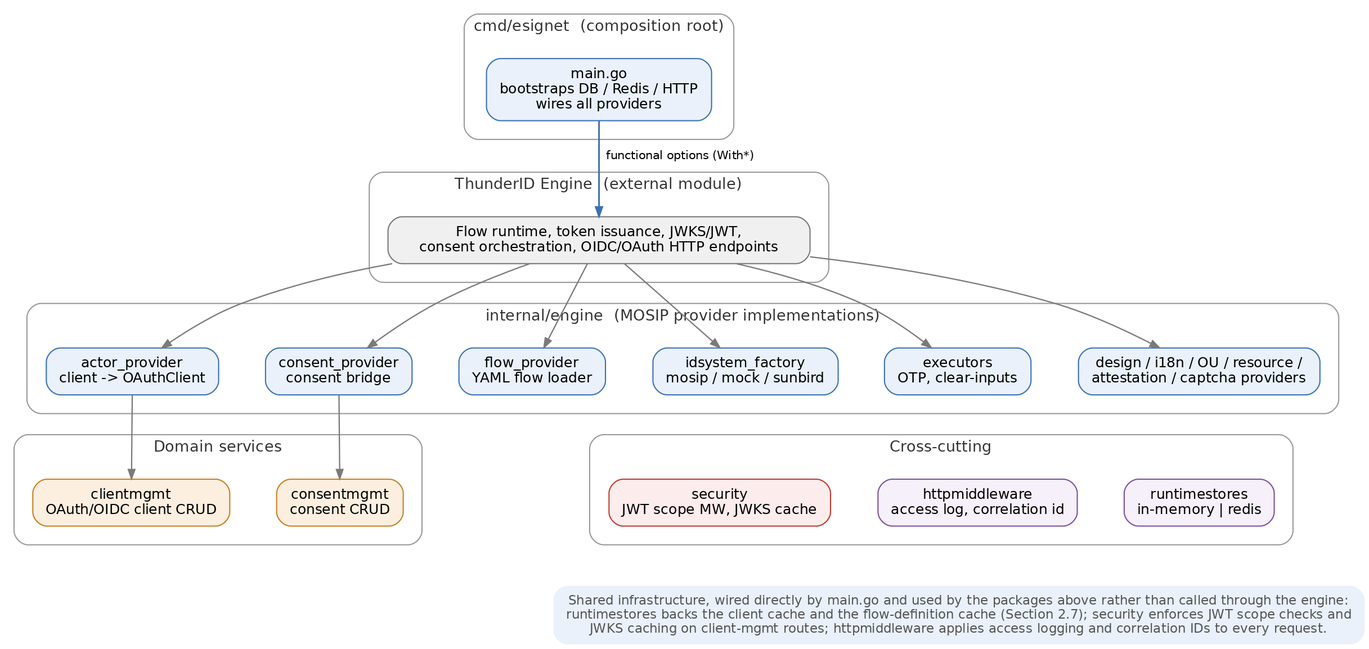
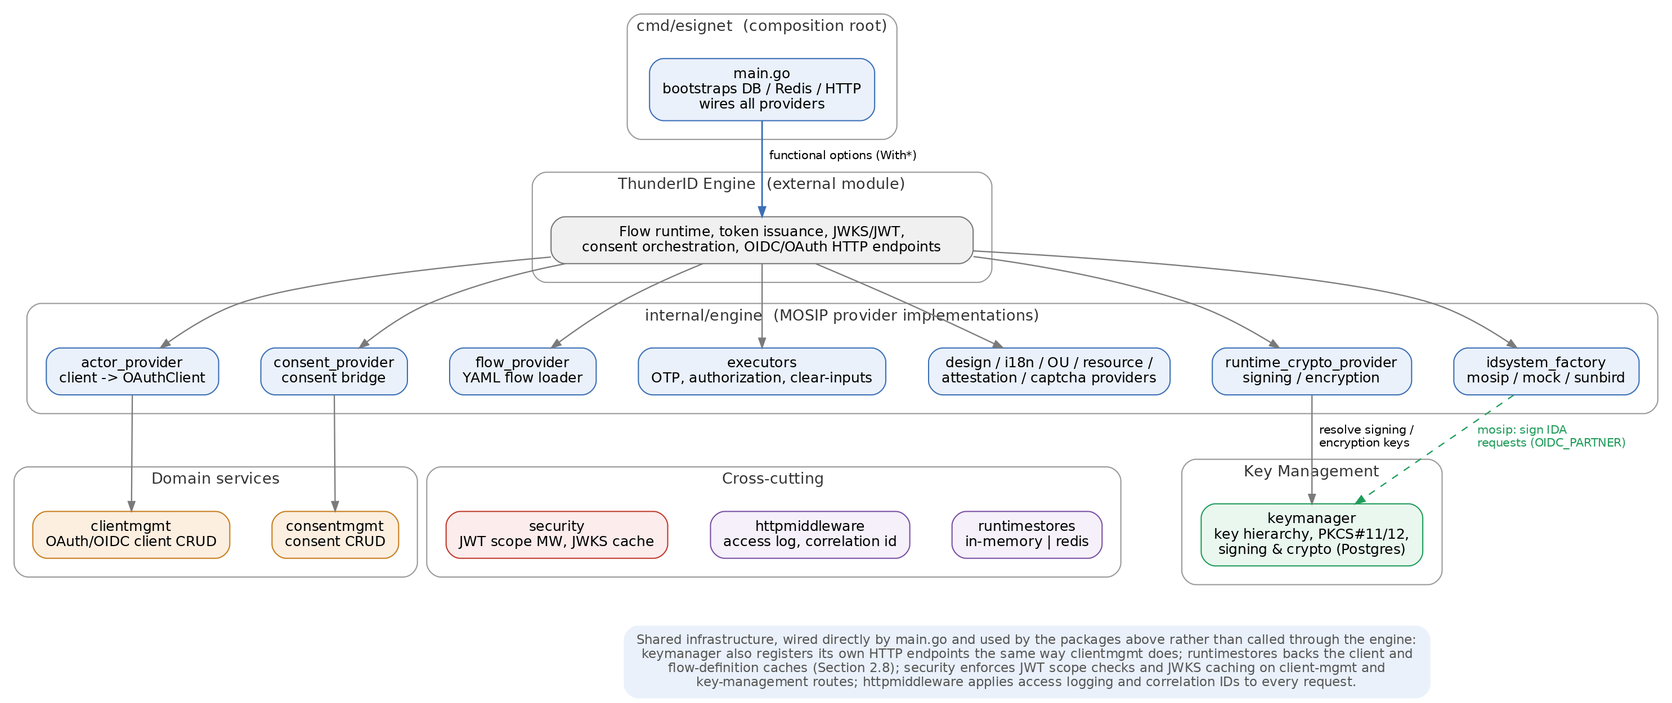
Updated architecture document

diff --git a/docs/architecture.md b/docs/architecture.md
@@ -2,7 +2,7 @@
 
 eSignet is MOSIP's OpenID Connect (OIDC) / OAuth2 identity provider (IDP). It lets a relying party (RP) — a government or private-sector application — authenticate an end user against a national or foundational identity system (e.g. MOSIP IDA, Sunbird Registered Claims, or a mock provider for testing) and receive standard OIDC tokens and claims, without the RP ever handling the user's raw identity credentials.
 
-This document describes the architecture of the two components that were reviewed in the connected repository:
+This document describes the architecture of the two components in this repository:
 
 - **esignet-service** – the Go backend that implements client management, consent management, and the MOSIP-specific pieces of the OIDC engine (identity-provider plugins, authentication flows, screens, security).
 - **oidc-ui** – the React/TypeScript single-page application that renders the login, OTP/biometric/KBI, and consent screens the end user interacts with.
@@ -11,7 +11,7 @@ Both components are built on top of ThunderID, a generic external OIDC/OAuth eng
 
 ### 1.1 System Context
 
-The diagram below shows how a relying party, the end user's browser, the two components under review, their datastores, and the pluggable identity backend fit together.
+The diagram below shows how a relying party, the end user's browser, the two components, their datastores, and the pluggable identity backend fit together.
 
 ![System context](diagrams/system-context.png)
 
@@ -24,14 +24,16 @@ _Figure 1 – System context_
 | esignet-service  | Go 1.26, ThunderID engine                    | OIDC/OAuth protocol endpoints (via engine), client & consent management APIs, MOSIP-specific auth-flow providers, identity-backend plugins |
 | oidc-ui          | React 19, TypeScript, Vite, @thunderid/react | Login/OTP/biometric/KBI/consent screens, theming, CAPTCHA, error/offline handling                                                          |
 | PostgreSQL       | RDBMS                                        | OAuth client registry, consent records/history, key material tables                                                                        |
-| Redis            | In-memory store                              | Shared runtime store: transient flow/session state, client cache, flow-definition cache                                                    |
+| Redis            | In-memory store                              | Shared runtime store: transient flow/OIDC transaction state, client cache, flow-definition cache                                                    |
 | Identity backend | MOSIP IDA / Sunbird RC / Mock                | Actual identity verification: OTP dispatch, KYC-auth, biometric/KBI matching                                                               |
 
 ---
 
 ## 2. esignet-service (Backend)
 
-esignet-service is a Go module (`github.com/mosip/esignet`, Go 1.26). Its entry point, `cmd/esignet/main.go`, is a composition root: it opens the Postgres and (optionally) Redis connections, builds the client-management HTTP handler, constructs an identity-backend provider via a factory, and then calls `thunderidengine.New(mux, ...)` with roughly twenty functional-option providers that plug MOSIP-specific behaviour into the generic ThunderID engine. The engine registers its own OIDC/OAuth endpoints (authorize, token, well-known discovery, JWKS, etc.) on the same `*http.ServeMux`; that route-registration code lives in the external module and is outside this repository.
+esignet-service is a Go module (`github.com/mosip/esignet`, Go 1.26). Its entry point, `cmd/esignet/main.go`, is a composition root: it opens the Postgres (via `pgx`) and (optionally) Redis connections, provisions its own cryptographic key hierarchy (see §2.4), builds the client-management and key-management HTTP handlers, constructs an identity-backend provider via a factory, and then calls `thunderidengine.New(mux, ...)` with over two dozen functional-option providers that plug MOSIP-specific behaviour into the generic ThunderID engine. The engine registers its own OIDC/OAuth endpoints (authorize, token, well-known discovery, JWKS, etc.) on the same `*http.ServeMux`; that route-registration code lives in the external module and is outside this repository.
+
+The HTTP server runs with explicit read-header/read/write/idle timeouts and shuts down gracefully on `SIGINT`/`SIGTERM` (a 10s window to drain in-flight requests before forcing closed). Alongside it, a private, unauthenticated `GET /metrics` listener (Prometheus, Postgres/Redis pool stats) runs on its own port, and an optional loopback-only (`127.0.0.1`) pprof debug server can be enabled for profiling.
 
 ### 2.1 Module Breakdown
 
@@ -44,10 +46,12 @@ _Figure 2 – esignet-service component composition_
 | `cmd/esignet`                                | Composition root: config load, DB/Redis setup, HTTP mux, wiring of all engine options                                                                                   |
 | `internal/clientmgmt`                        | OAuth/OIDC relying-party client registration, update, patch, lookup (REST API + Postgres)                                                                               |
 | `internal/consentmgmt`                       | User consent capture, decision hashing, history (Postgres)                                                                                                              |
-| `internal/engine`                            | MOSIP implementations of the ThunderID engine's provider interfaces (actor, authorization, consent bridge, flow, design, i18n, OU, resource, attestation, captcha, IDP) |
-| `internal/engine/executors`                  | Custom flow-step executors: eSignet OTP executor, clear-inputs executor                                                                                                 |
+| `internal/engine`                            | MOSIP implementations of the ThunderID engine's provider interfaces (actor, authorization, consent bridge, flow, design, i18n, OU, resource, attestation, captcha, IDP, runtime crypto) |
+| `internal/engine/executors`                  | Custom flow-step executors: eSignet OTP executor (with per-node max-attempt lockout), authorization executor (resource-server + client scope enforcement), clear-inputs executor |
 | `internal/engine/mosip` · `mock` · `sunbird` | Pluggable identity-verification backends selected at startup                                                                                                            |
 | `internal/engine/runtimestores`              | In-memory or Redis-backed shared runtime store (flow state, caches)                                                                                                     |
+| `internal/keymanager` (+ `cryptomanager`, `keystore`, `signature`) | Native Go port of MOSIP's Keymanager: key hierarchy, PKCS#11 (HSM) / PKCS#12 keystores, signing & envelope-encryption services, its own HTTP key-management API (Postgres) |
+| `internal/metrics`                           | Prometheus metrics (Postgres/Redis connection-pool stats), served on a private port                                                                                    |
 | `internal/security`                          | JWT bearer-token scope enforcement middleware, JWKS cache, request-time validation                                                                                      |
 | `internal/httpmiddleware`                    | Access logging, correlation-ID propagation                                                                                                                              |
 | `internal/config`                            | Environment/YAML-driven application configuration                                                                                                                       |
@@ -61,9 +65,11 @@ A flow is a state machine of nodes:
 
 - **START / END** – flow entry and exit points.
 - **PROMPT** – renders a UI screen, described as a tree of components (blocks, text, text/OTP inputs, consent widgets, custom elements) with i18n keys resolved by the i18n provider.
-- **TASK_EXECUTION** – invokes a named executor (built into the engine, e.g. `CredentialsAuthExecutor`, `AuthAssertExecutor`, `ConsentExecutor`, `AuthorizationExecutor`; or MOSIP-specific, e.g. `eSignetOtpExecutor`) and branches on `onSuccess` / `onIncomplete`.
+- **TASK_EXECUTION** – invokes a named executor (built into the engine, e.g. `CredentialsAuthExecutor`, `AuthAssertExecutor`, `ConsentExecutor`; or MOSIP-specific, e.g. `eSignetOtpExecutor`, `eSignetAuthorizationExecutor`) and branches on `onSuccess` / `onIncomplete`.
 
-`flow-esignet.yaml` implements a multi-ACR login: a mode selector branches into OTP, password, biometric, or KBI sub-flows (each collecting a UIN/mobile/email/NRC identifier plus a CAPTCHA), converging on `authorization_check` → `consent_check` (looping back to the consent screen if incomplete) → `auth_assert` → `end`. A CAPTCHA interceptor is applied selectively to OTP-send and credential/KBI-auth nodes.
+`flow-esignet.yaml` implements a multi-ACR login: a mode selector branches into OTP, password, biometric, or KBI sub-flows (each collecting a UIN/mobile/email/NRC identifier plus a CAPTCHA; OTP-send nodes are capped at 3 attempts before the step fails), converging on `authorization_check` → `consent_check` (looping back to the consent screen if incomplete) → `auth_assert` → `end`. A CAPTCHA interceptor is applied selectively to OTP-send and credential/KBI-auth nodes.
+
+`authorization_check` now runs the custom `eSignetAuthorizationExecutor` (RFC 8707 resource-indicator support) rather than a built-in engine executor: it resolves the resource server bound to the request (via a `resource_server_identifier` seeded by the OAuth layer, falling back to the deployment's default resource server), drops any requested permission scope that resource server doesn't define, and intersects what's left against the requesting client's `allowed_authorization_scopes` — writing the result as `authorized_permissions` for the consent step to prompt on.
 
 ### 2.3 Pluggable Identity-System Providers
 
@@ -71,15 +77,32 @@ A flow is a state machine of nodes:
 
 | Provider  | Backend                                        | Notes                                                                                                                                                                                                         |
 | --------- | ---------------------------------------------- | ------------------------------------------------------------------------------------------------------------------------------------------------------------------------------------------------------------- |
-| `mosip`   | MOSIP IDA (KYC-auth / KYC-exchange / send-OTP) | Requests encrypted with AES-256-GCM, key wrapped with RSA-OAEP against the IDA partner certificate, payload signed as a JWT (x5c) using a key loaded from a PKCS#12 file. Supports OTP, password, biometrics. |
+| `mosip`   | MOSIP IDA (KYC-auth / KYC-exchange / send-OTP) | Requests encrypted with AES-256-GCM, key wrapped with RSA-OAEP against the IDA partner certificate, payload signed as a JWT (x5c) using the `OIDC_PARTNER` key resolved from `internal/keymanager` (see §2.4) rather than a local PKCS#12 file. Supports OTP, password, biometrics; the KYC-exchange response is now passed through as an already-signed JWT rather than parsed into individual claims. |
 | `sunbird` | Sunbird Registered Claims registry             | KBI-only (no OTP). Exact-match search against configured KBI fields; requires exactly one match; claims released only via an explicit field mapping (fail closed on unmapped fields).                         |
 | `mock`    | In-house mock identity service                 | For development/testing; supports OTP, password, PIN, biometrics, or arbitrary KBI challenges; no MOSIP cryptographic envelope.                                                                               |
 
-### 2.4 Client Management
+### 2.4 Key Management
+
+`internal/keymanager` is a native Go port of MOSIP's Java `KeymanagerService`: cryptographic key lifecycle management (generation, certificate/CSR issuance, upload, revocation, and lazy expiry-driven rotation) backed by Postgres and a pluggable keystore — PKCS#11 (HSM/SoftHSM2; built only under `CGO_ENABLED=1`, falling back to an error stub otherwise) or a PKCS#12 file. Engine's new `engine.NewRuntimeCryptoProvider` (wired via `thunderidengine.WithRuntimeCryptoProvider`) resolves signing and encryption operations through this package.
+
+Keys are organised in a hierarchy: a self-signed `ROOT`, under which each `ApplicationID` gets a Component Master Key (RSA-2048, signed by ROOT) plus an EC sign key and/or Component Encryption Keys (signed by the Master Key). On every startup, `main.go`'s `provisionKeyHierarchy` idempotently provisions `ROOT`; `OIDC_SERVICE` (esignet itself — its RSA master key, an `EC_SECP256R1_SIGN` JWT-signing key, and a `CACHE_ENCRYPT` symmetric key the runtime-crypto provider uses for cache encryption); and `OIDC_PARTNER` (the RSA key esignet uses to sign outbound MOSIP IDA requests — see §2.3). The service's JWKS well-known output is also extended to publish the active identity backend's own signing certificates (`GetSigningCertificates`) alongside these keys.
+
+`keymanager.Handler` exposes its own small HTTP API, registered on the same mux and behind the same security middleware as client management:
+
+| Method & Path | Purpose |
+| --- | --- |
+| `GET /system-info/certificate` | Fetch the current certificate/CSR for an `applicationId` (+ optional `referenceId`) |
+| `POST /system-info/uploadCertificate` | Replace the certificate for an `applicationId`/`referenceId` |
+
+The package owns the `key_alias`, `key_policy_def`, and `key_store` tables directly (see §2.9); `public_key_registry`, `ca_cert_store`, and `server_profile` remain used by the ThunderID engine itself rather than by esignet-service's own Go code.
+
+### 2.5 Client Management
 
 `internal/clientmgmt` models one underlying OAuth/OIDC client entity exposed through three API "profiles" (oidc-client, oauth-client, generic client) sharing the same Postgres table, `client_detail`. A client record carries its client ID/name, relying-party ID, redirect URIs, allowed claims and ACR values, signing/encryption JWKs, grant types and token-auth methods, plus a free-form `additional_config` JSON for PAR/DPoP/PKCE flags and consent expiry.
 
 The service supports create, full update, and partial patch (with optimistic concurrency via an updated-timestamp check, and a tri-state "omitted / null / value" marker for the encryption key so callers can distinguish "leave alone" from "clear"). `GetClient` is cache-through: reads hit the shared runtime store first, and every write invalidates the cache.
+
+`additional_config` is now validated against an explicit allow-list of known keys (unknown keys are rejected), and a registered `EncPublicKey`'s declared `alg` must be one of the deployment's `SupportedEncAlgorithms` (`MOSIP_ESIGNET_OAUTH_SUPPORTED_ENCRYPTION_ALGORITHMS`, default `RSA-OAEP` / `RSA-OAEP-256`). Duplicate-client-ID and duplicate-public-key conflicts are now detected via the Postgres driver's structured error code (`pgconn.PgError.Code == "23505"`) rather than a brittle string match, fixing a case that previously fell through as an unhandled HTTP 500.
 
 **Endpoints**
 
@@ -93,38 +116,43 @@ The service supports create, full update, and partial patch (with optimistic con
 | `PATCH /client-mgmt/client/{client_id}`                            | Partial update of selected fields        |
 | `GET /client-mgmt/client/{client_id}`                              | Fetch a client (cache-through)           |
 
-### 2.5 Consent Management
+### 2.6 Consent Management
 
 `internal/consentmgmt` ports the decision logic of the original Java eSignet consent service. A `ConsentRecord` holds the client/user pair, requested claims and authorization scopes, a deterministic hash of that request, the accepted claims/permitted scopes, and an optional expiry (null = never expires).
 
-On each authorization request, the engine's consent provider compares a hash of the newly requested claims/scopes against the last stored consent for that (client, user) pair to decide whether to re-prompt the user (CAPTURE) or reuse the prior decision (NOCAPTURE). `SaveRecord` writes both an append-only audit row (`consent_history`) and an upserted current row (`consent_detail`) inside a single database transaction; `DeleteRecord` removes only the current row, leaving history intact.
+On each authorization request, the engine's consent provider compares a hash of the newly requested claims/scopes against the last stored consent for that (client, user) pair to decide whether to re-prompt the user (CAPTURE) or reuse the prior decision (NOCAPTURE). It now resolves the client (`clientSvc.GetActiveClient`) and filters against that client's own registered `Claims` rather than the deployment's global scope-claims config alone, and any submitted consent decision is filtered to only the claims/scopes actually requested — a user (or a malicious client) can't grant more than was asked for. `SaveRecord` writes both an append-only audit row (`consent_history`) and an upserted current row (`consent_detail`) inside a single database transaction; `DeleteRecord` removes only the current row, leaving history intact.
 
-### 2.6 Security
+### 2.7 Security
 
-Two independent, composable HTTP middlewares protect the client-management API surface:
+Two independent, composable HTTP middlewares protect the client-management and key-management API surfaces:
 
 - **Scope enforcement** – `ScopeMiddleware` activates only when both an issuer URL and a JWKS URL are configured. It validates the Bearer JWT (RS/ES/PS 256/384/512, pinned issuer, mandatory expiry) against a key resolved from a polling `JWKSCache` (keyed by `kid`, with a forced refresh on a cache miss to tolerate key rotation), then checks the token's scope claim against a per-route scope mapping. Requests to a route with no configured mapping are rejected (fail closed).
 - **Request-time validation** – a configurable leeway window (default 300s) rejects requests whose declared request time has drifted too far from server time, mitigating replay of captured requests.
 
-The OIDC/OAuth protocol surface itself (token issuance, PKCE, DPoP, client authentication via `private_key_jwt`) is enforced inside the ThunderID engine and configured, not re-implemented, by esignet-service.
+The OIDC/OAuth protocol surface itself (token issuance, PKCE, DPoP, client authentication via `private_key_jwt`) is enforced inside the ThunderID engine and configured, not re-implemented, by esignet-service. A configurable CORS allow-list (`MOSIP_ESIGNET_CORS_ALLOWED_ORIGIN_REGEX`, matched against a regex) is passed to the engine as an `OriginConfig`; unset, no cross-origin requests are allowed. Clients can also opt into encrypted responses: when a client's `additional_config` requests `"JWE"`, the userinfo and ID-token responses are sign-then-encrypt (nested JWT, `A256GCM`) using that client's registered encryption key instead of plain signed JWTs.
 
-### 2.7 Configuration & Runtime Store
+### 2.8 Configuration, Observability & Runtime Store
 
-Application configuration is loaded from `data/deployment.yaml` with environment-variable interpolation, then defaulted/overridden by explicit env vars. Notable settings include the listening port, issuer host, data directory, selected authentication provider, active flow/layout/theme IDs, the runtime-store backend, cache TTLs for clients/flows/design assets, and nested engine configuration for OAuth grant/response types, JWT signing, ACR→AMR mapping, CAPTCHA validation, and outbound HTTP client tuning.
+Application configuration is loaded from `data/deployment.yaml` with environment-variable interpolation, then defaulted/overridden by explicit env vars. Notable settings include the listening port, issuer host, data directory, selected authentication provider, active flow/layout/theme IDs, the runtime-store backend, cache TTLs for clients/flows/design assets, CORS origin regex, supported client encryption algorithms, inbound HTTP server timeouts, and nested engine configuration for OAuth grant/response types, JWT signing, ACR→AMR mapping, CAPTCHA validation, and outbound HTTP client tuning. `internal/keymanager` and `internal/keymanager/cryptomanager` load their own `KEYMANAGER_`-prefixed config separately (keystore type/path, key policy defaults, DB schema — see §2.4).
 
-The runtime store abstracts transient state behind one interface with two implementations: an in-memory store (single instance, development/testing only — explicitly logged as not shared across replicas) and a Redis-backed store used in production for horizontal scalability. It is shared by three consumers: the engine's own flow/session state, the client-management cache, and the flow-definition cache.
+The runtime store abstracts transient state behind one interface with two implementations: an in-memory store (single instance, development/testing only — explicitly logged as not shared across replicas) and a Redis-backed store used in production for horizontal scalability. It is shared by three consumers: the engine's own flow state, the client-management cache, and the flow-definition cache.
 
-### 2.8 Data Model
+Observability runs on two side channels, both separate from the public API mux: a private `GET /metrics` listener (Prometheus, `internal/metrics` — Postgres and Redis connection-pool gauges/counters) on its own port, and an optional `127.0.0.1`-only pprof debug server (`/debug/pprof/*`) gated by a config flag, for profiling without exposing it publicly.
 
-The service owns three tables directly (via generated, type-safe SQL access):
+### 2.9 Data Model
 
-| Table             | Purpose                                                                                                                                |
-| ----------------- | -------------------------------------------------------------------------------------------------------------------------------------- |
-| `client_detail`   | OAuth/OIDC client registry: identifiers, redirect URIs, claims, ACR values, JWKs, grant types, auth methods, status, additional config |
-| `consent_detail`  | Current consent decision per (client_id, user token): accepted claims, permitted scopes, expiry                                        |
-| `consent_history` | Append-only audit trail of every consent decision                                                                                      |
+The service owns six tables directly (via generated, type-safe SQL access):
 
-A shared `mosip_esignet` schema also defines `key_store`, `public_key_registry`, `key_alias`, `key_policy_def`, and `ca_cert_store` tables used by the esignet-service's own key manager for cryptographic operations.
+| Table               | Purpose                                                                                                                                | Owning package        |
+| ------------------- | ---------------------------------------------------------------------------------------------------------------------------------------| ---------------------- |
+| `client_detail`     | OAuth/OIDC client registry: identifiers, redirect URIs, claims, ACR values, JWKs, grant types, auth methods, status, additional config | `internal/clientmgmt`  |
+| `consent_detail`    | Current consent decision per (client_id, user token): accepted claims, permitted scopes, expiry                                       | `internal/consentmgmt` |
+| `consent_history`   | Append-only audit trail of every consent decision                                                                                      | `internal/consentmgmt` |
+| `key_alias`         | Key hierarchy metadata (application/reference IDs, certificate thumbprints, expiry)                                                    | `internal/keymanager`  |
+| `key_policy_def`    | Per-`ApplicationID` key policy (validity periods, allowed key types) that must exist before a key can be generated for that app        | `internal/keymanager`  |
+| `key_store`         | Encrypted private keys and certificates                                                                                                | `internal/keymanager`  |
+
+The `key_alias`/`key_policy_def`/`key_store` schema is configurable (`KEYMANAGER_DB_SCHEMA`, default `keymgr` to match the Java service) — the reference `docker-compose` deployment points it at the same `esignet` Postgres schema as `client_detail`/`consent_detail`. A shared schema also defines `public_key_registry`, `ca_cert_store`, and `server_profile` tables used by the ThunderID engine itself rather than by esignet-service's own Go code.
 
 ---
 
@@ -141,7 +169,7 @@ oidc-ui is a React 19 / TypeScript single-page application built with Vite. Rath
 | Routing            | react-router-dom v7                                                              |
 | Data/query caching | @tanstack/react-query v5                                                         |
 | Styling            | Tailwind CSS v4 (CSS-based config) + PostCSS/Autoprefixer                        |
-| Core domain SDK    | @thunderid/react v0.11.0 – SignIn/flow renderer, ThunderIDProvider, I18nProvider |
+| Core domain SDK    | @thunderid/react v1.0.6 – SignIn/flow renderer, ThunderIDProvider, I18nProvider (data-router APIs; major-version bump from v0.11.0) |
 | CAPTCHA            | Google reCAPTCHA, Cloudflare Turnstile, hCaptcha (selectable)                    |
 | Biometrics         | @mosip/secure-biometric-interface-integrator                                     |
 | Testing            | Vitest + Testing Library, jsdom, 80% coverage threshold                          |
@@ -175,6 +203,8 @@ _Figure 3 – oidc-ui component composition_
 
 There is no separate app route per screen (OTP entry, consent review, biometric capture, etc.) — those are step types rendered inside the single SDK flow component, matching the backend's PROMPT-node model described in section 2.2. The app customises specific step renderers (e.g. the CAPTCHA box, the biometric-capture widget, the resend-OTP and back-button controls) by injecting overrides into the SDK.
 
+Routing was migrated from `<BrowserRouter>` to `createBrowserRouter`/`<RouterProvider>` (a single catch-all route rendering an `AppLayout` wrapper around `NavHeader` + `AppRouter` + `Footer`), which is required to use react-router's `useBlocker` hook. `AppRouter` uses that hook to intercept browser back/forward navigation (`historyAction === "POP"`) and show a confirmation prompt before letting it proceed, and separately registers a `beforeunload` warning once the user has started interacting with the `/signin` screen — both guard against accidentally abandoning an in-progress login session.
+
 ### 3.4 Backend Integration
 
 `api.service.ts` wraps axios with credentials enabled and a base URL derived from `VITE_API_URL` (`/v1/esignet` in production). A request interceptor fetches and caches a CSRF token from `GET {base}/csrf/token`, attaching it as an `X-XSRF-TOKEN` header on state-changing requests; a response interceptor redirects to `/something-went-wrong` on any 4xx/5xx. The SDK's `ThunderIDProvider` is initialised with the same base URL and the `applicationId` query parameter, and internally issues the actual flow/OTP/consent/token calls against esignet-service.
@@ -184,6 +214,8 @@ In production, nginx proxies `/v1/esignet/*` to the esignet-service backend, alo
 ### 3.5 Configuration & Theming
 
 Per-deployment configuration is injected at container start rather than baked into the build: `public/env-config.js` sets `window._env_` (default language, well-known URL, theme, favicon, title, ID-provider display name), generated by `configure_start.sh` from Docker build arguments. The same script downloads and unzips externally hosted i18n, theme, and image bundles into the served static tree — the frontend analogue of the backend's `data/i18n` and `data/themes` YAML assets, delivered as static files rather than fetched live from an API. A runtime `theme/config.json` (fetched by `config.service.ts`) carries boolean UI feature flags (e.g. OTP/biometrics info icons, background logo, footer, outline toggle), and CSS custom properties are injected for logo and background image URLs.
+
+The initial UI language now follows the standard OIDC `ui_locales` query parameter when the relying party supplies one (first of the space-separated, preference-ordered list), falling back to `window._env_.DEFAULT_LANG`; the resolved language is passed into `ThunderIDProvider` as `preferences.i18n.language`. `ThunderIDProvider` is also given a `namespace={applicationId}` prop, fixing localized client-name resolution. The language switcher in `NavHeader` was redesigned to show each language's native-script name (e.g. हिन्दी, العربية) instead of its raw locale display name, via a `LANGUAGE_NATIVE_NAMES` map.
 
 ### 3.6 Build & Deployment
 
@@ -195,8 +227,9 @@ A multi-stage Dockerfile builds the Vite bundle in a `node:20-slim` stage and se
 - CSRF protection via a fetched token attached to state-changing requests.
 - OAuth state/PKCE handling performed inside the SDK, not re-implemented in this repository.
 - Centralised error handling: HTTP errors redirect to a dedicated error page carrying the status code; offline detection redirects to a network-error page.
-- Right-to-left layout support and language switching for internationalisation.
-- Biometric capture bridged to the MOSIP Secure Biometric Interface device SDK, auto-submitting the form on a successful scan.
+- Right-to-left layout support and language switching (native-script labels) for internationalisation.
+- Biometric capture bridged to the MOSIP Secure Biometric Interface device SDK, auto-submitting the form on a successful scan; the SBI widget's own language is kept in sync with the app's active (SBI-supported) language.
+- Back/forward-navigation guard: a router `useBlocker` intercepts browser back/forward during a session with a confirmation prompt, and a `beforeunload` warning guards accidental tab close/reload once the user has started the login screen.
 
 ---
 
@@ -215,8 +248,10 @@ _Figure 4 – End-to-end login and consent sequence_
 - **Engine-and-plugin separation** – protocol mechanics (token issuance, JWKS, PKCE/DPoP/PAR, flow execution runtime, UI-rendering surface) live in the shared, external ThunderID engine/SDK; esignet-service and oidc-ui contribute only MOSIP-specific providers, screen theming, and identity-backend integrations. This keeps the MOSIP-specific codebase small and lets the protocol core be upgraded independently.
 - **Flow-as-configuration** – authentication and consent journeys are declarative YAML (backend) rendered generically by a single SDK component (frontend), so new login methods or screen orders can be introduced without new app routes or backend endpoints, only new flow nodes and, where needed, new executors.
 - **Swappable identity backend** – MOSIP IDA, Sunbird RC, and a mock provider all satisfy one authenticator interface, selected by a single environment variable, enabling the same UI/flow layer to run against production identity systems or a local mock for testing.
-- **Defence in depth on the API surface** – client-management APIs are protected independently by scope-checked bearer tokens and request-time/replay validation, in addition to the OIDC/OAuth security enforced by the engine on the protocol endpoints.
+- **Defence in depth on the API surface** – client-management and key-management APIs are protected independently by scope-checked bearer tokens, request-time/replay validation, and a configurable CORS allow-list, in addition to the OIDC/OAuth security enforced by the engine on the protocol endpoints.
 - **Cache-through shared runtime store** – a single Redis-or-in-memory store backs client lookups, flow-definition caching, and the engine's own session/flow state, with Redis required for any multi-replica deployment.
+- **Self-contained, HSM-capable key management** – a native Go port of MOSIP's Keymanager service (§2.4) provisions and rotates esignet's own signing/encryption key hierarchy against Postgres and a pluggable keystore (PKCS#11 HSM/SoftHSM2, or a PKCS#12 file for local development), replacing the previous static, file-based signing key and giving the deployment a standalone HTTP key-management API rather than depending on an external Keymanager service.
+- **Resource-scoped authorization** – requested OAuth permission scopes are checked against both a resolved resource server's configured scopes and the client's own `allowed_authorization_scopes` before consent is prompted, so a client can never receive (or a user be asked to approve) a scope it isn't entitled to.
 - **Externalised, per-deployment theming** – language packs, themes, layouts, and images are treated as deployable configuration (YAML on the backend, downloaded static bundles plus a runtime `env-config.js` on the frontend) rather than being compiled into either artifact, allowing one build to serve multiple branded deployments.
 
 ---
@@ -231,6 +266,9 @@ _Figure 4 – End-to-end login and consent sequence_
 | `POST` / `PUT /client-mgmt/oidc-client[/{client_id}]`              | Scope-checked bearer token (if configured) |
 | `POST` / `PUT /client-mgmt/oauth-client[/{client_id}]`             | Scope-checked bearer token (if configured) |
 | `POST` / `PUT` / `PATCH` / `GET /client-mgmt/client[/{client_id}]` | Scope-checked bearer token (if configured) |
+| `GET /system-info/certificate`                                     | Scope-checked bearer token (if configured) |
+| `POST /system-info/uploadCertificate`                              | Scope-checked bearer token (if configured) |
+| `GET /metrics`                                                     | None — served on a separate private port, not the public mux |
 
 Standard OIDC/OAuth endpoints (`/authorize`, `/token`, `/.well-known/openid-configuration`, JWKS publishing, PAR, revocation, logout) are registered by the external ThunderID engine on the same mux and are outside this repository's own route-registration code.
 
@@ -244,6 +282,10 @@ Standard OIDC/OAuth endpoints (`/authorize`, `/token`, `/.well-known/openid-conf
 | `MOSIP_ESIGNET_AUTH_FLOW_ID`                        | Selects the active flow YAML under `data/flows/`             |
 | `MOSIP_ESIGNET_LAYOUT_ID`, `MOSIP_ESIGNET_THEME_ID` | Selects the active layout/theme YAML under `data/`           |
 | `RuntimeDBType` (config)                            | Selects Redis vs. in-memory runtime store                    |
-| `CRYPTO_ENCRYPTION_KEY`                             | Required; service fails to start if unset                    |
 | `ISSUER_URL`, `JWKS_URL` (security_config)          | Enable scope-enforcement middleware when both are set        |
+| `MOSIP_ESIGNET_CORS_ALLOWED_ORIGIN_REGEX`           | CORS allow-list regex; unset means no cross-origin requests are allowed |
+| `MOSIP_ESIGNET_OAUTH_SUPPORTED_ENCRYPTION_ALGORITHMS` | Restricts which `alg` a client's registered `EncPublicKey` may declare (default `RSA-OAEP`, `RSA-OAEP-256`) |
+| `METRICS_PORT`                                      | Private Prometheus `/metrics` listener port (default 9090)   |
+| `MOSIP_ESIGNET_PPROF_ENABLED`, `MOSIP_ESIGNET_PPROF_PORT` | Enable/port the loopback-only pprof debug server        |
+| `KEYMANAGER_DB_SCHEMA`, `KEYMANAGER_KEYSTORE_TYPE`  | Key-manager Postgres schema (default `keymgr`) and keystore backend (`PKCS11` default, or `PKCS12`) |
 | `VITE_API_URL` (oidc-ui build)                      | Backend base path, e.g. `/v1/esignet`                        |

diff --git a/docs/configuration/claims.md b/docs/configuration/claims.md
@@ -77,3 +77,7 @@ encryption JWK (`encPublicKey.alg`).
 SunbirdRC (KBI): `MOSIP_ESIGNET_AUTHENTICATOR_SUNBIRD_RC_IDENTITY_OPENID_CLAIMS_MAPPING` (JSON),
 default `{"name":"fullName","email":"email","phone_number":"mobile","gender":"gender","birthdate":"dob"}`
 — empty/malformed means no claims released for that provider.
+
+
+> **Planned change (next release):** claims validation will be driven by the list of claims defined in
+> `config/app.go`, and the values currently hardcoded in `clientmgmt/validate.go` will be removed.

diff --git a/docs/configuration/login-id.md b/docs/configuration/login-id.md
@@ -20,3 +20,9 @@ Validation `message` keys (`validation.uin.numeric`, `validation.mobile.length`,
 
 No env var or `deployment.yaml` key controls any of this — it is edited directly in the flow YAML
 under `<DATA_DIR>/flows/`.
+
+
+## Planned change (next release)
+
+`flow-esignet.yaml` will become overrideable, so login-ID types can be added, removed,
+or reconfigured through deployment overrides instead of editing the shipped flow YAML directly.

diff --git a/docs/configuration/acr.md b/docs/configuration/acr.md
@@ -62,3 +62,6 @@ properties:
 
 No env var or `deployment.yaml` key controls this — it is edited directly in the flow YAML under
 `<DATA_DIR>/flows/`.
+
+> **Planned change (next release):** ACR validation will be driven by the list of ACRs defined in
+> `config/app.go`, and the values currently hardcoded in `clientmgmt/validate.go` will be removed.
